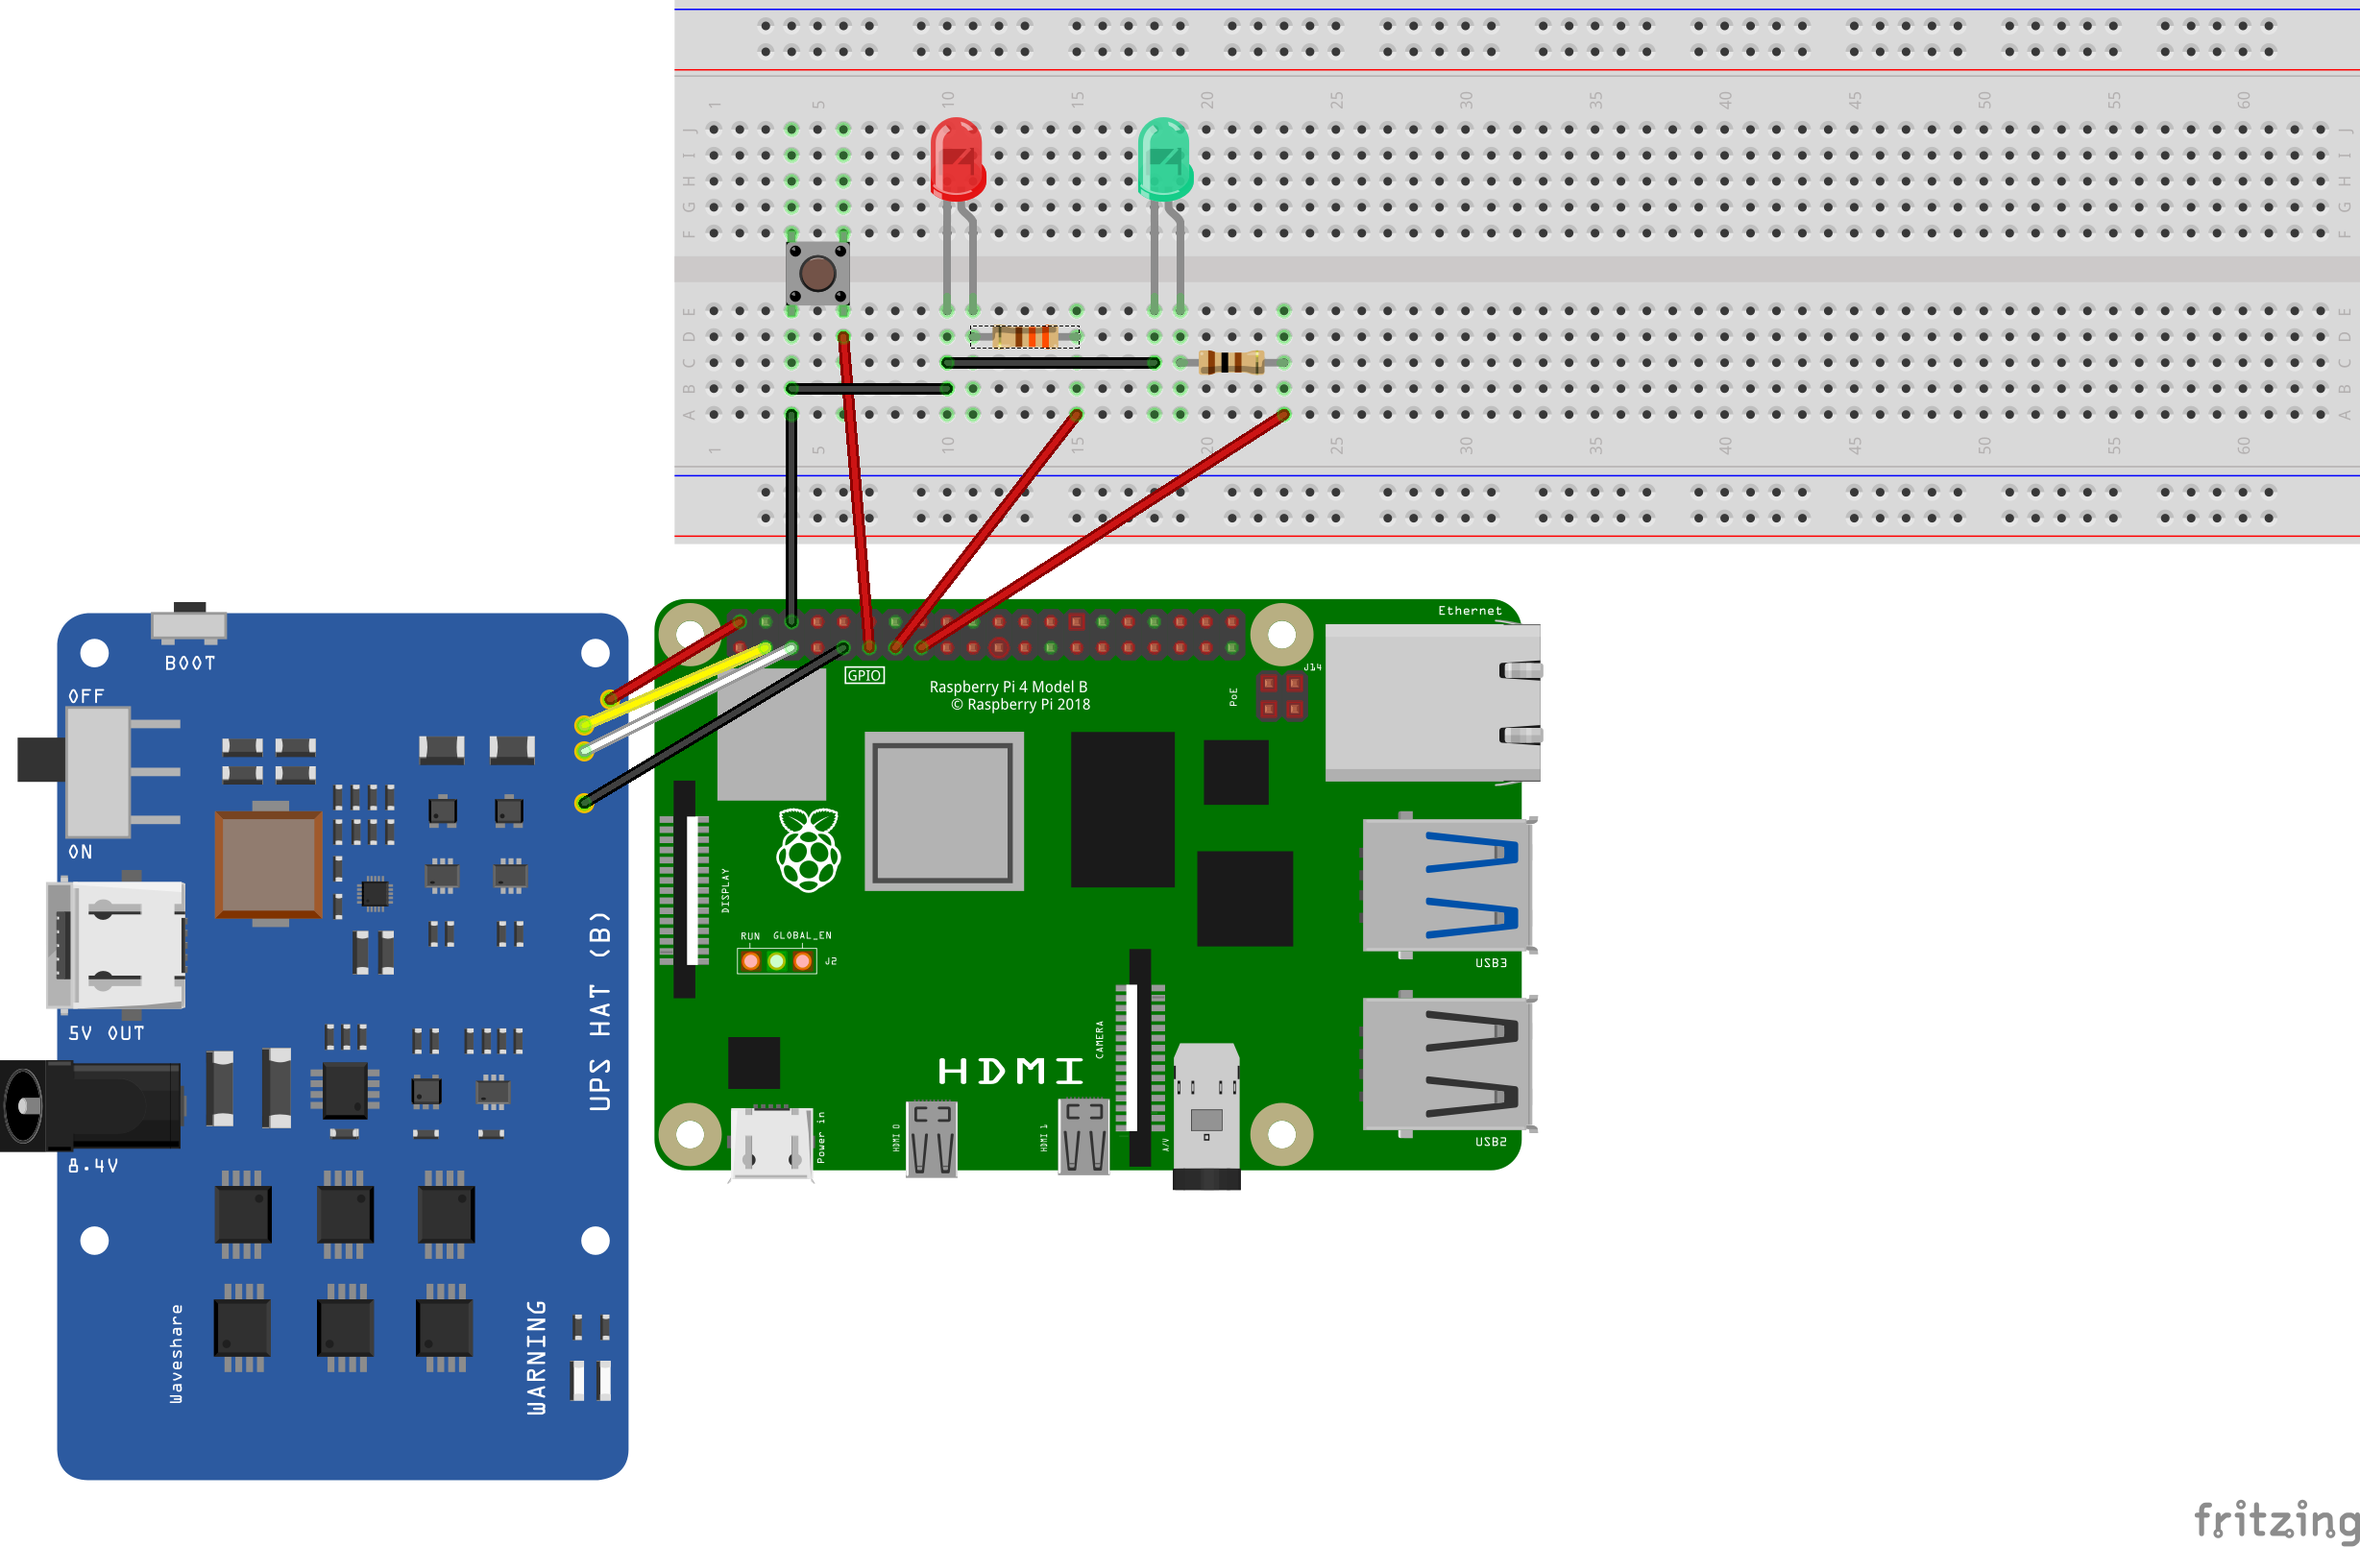
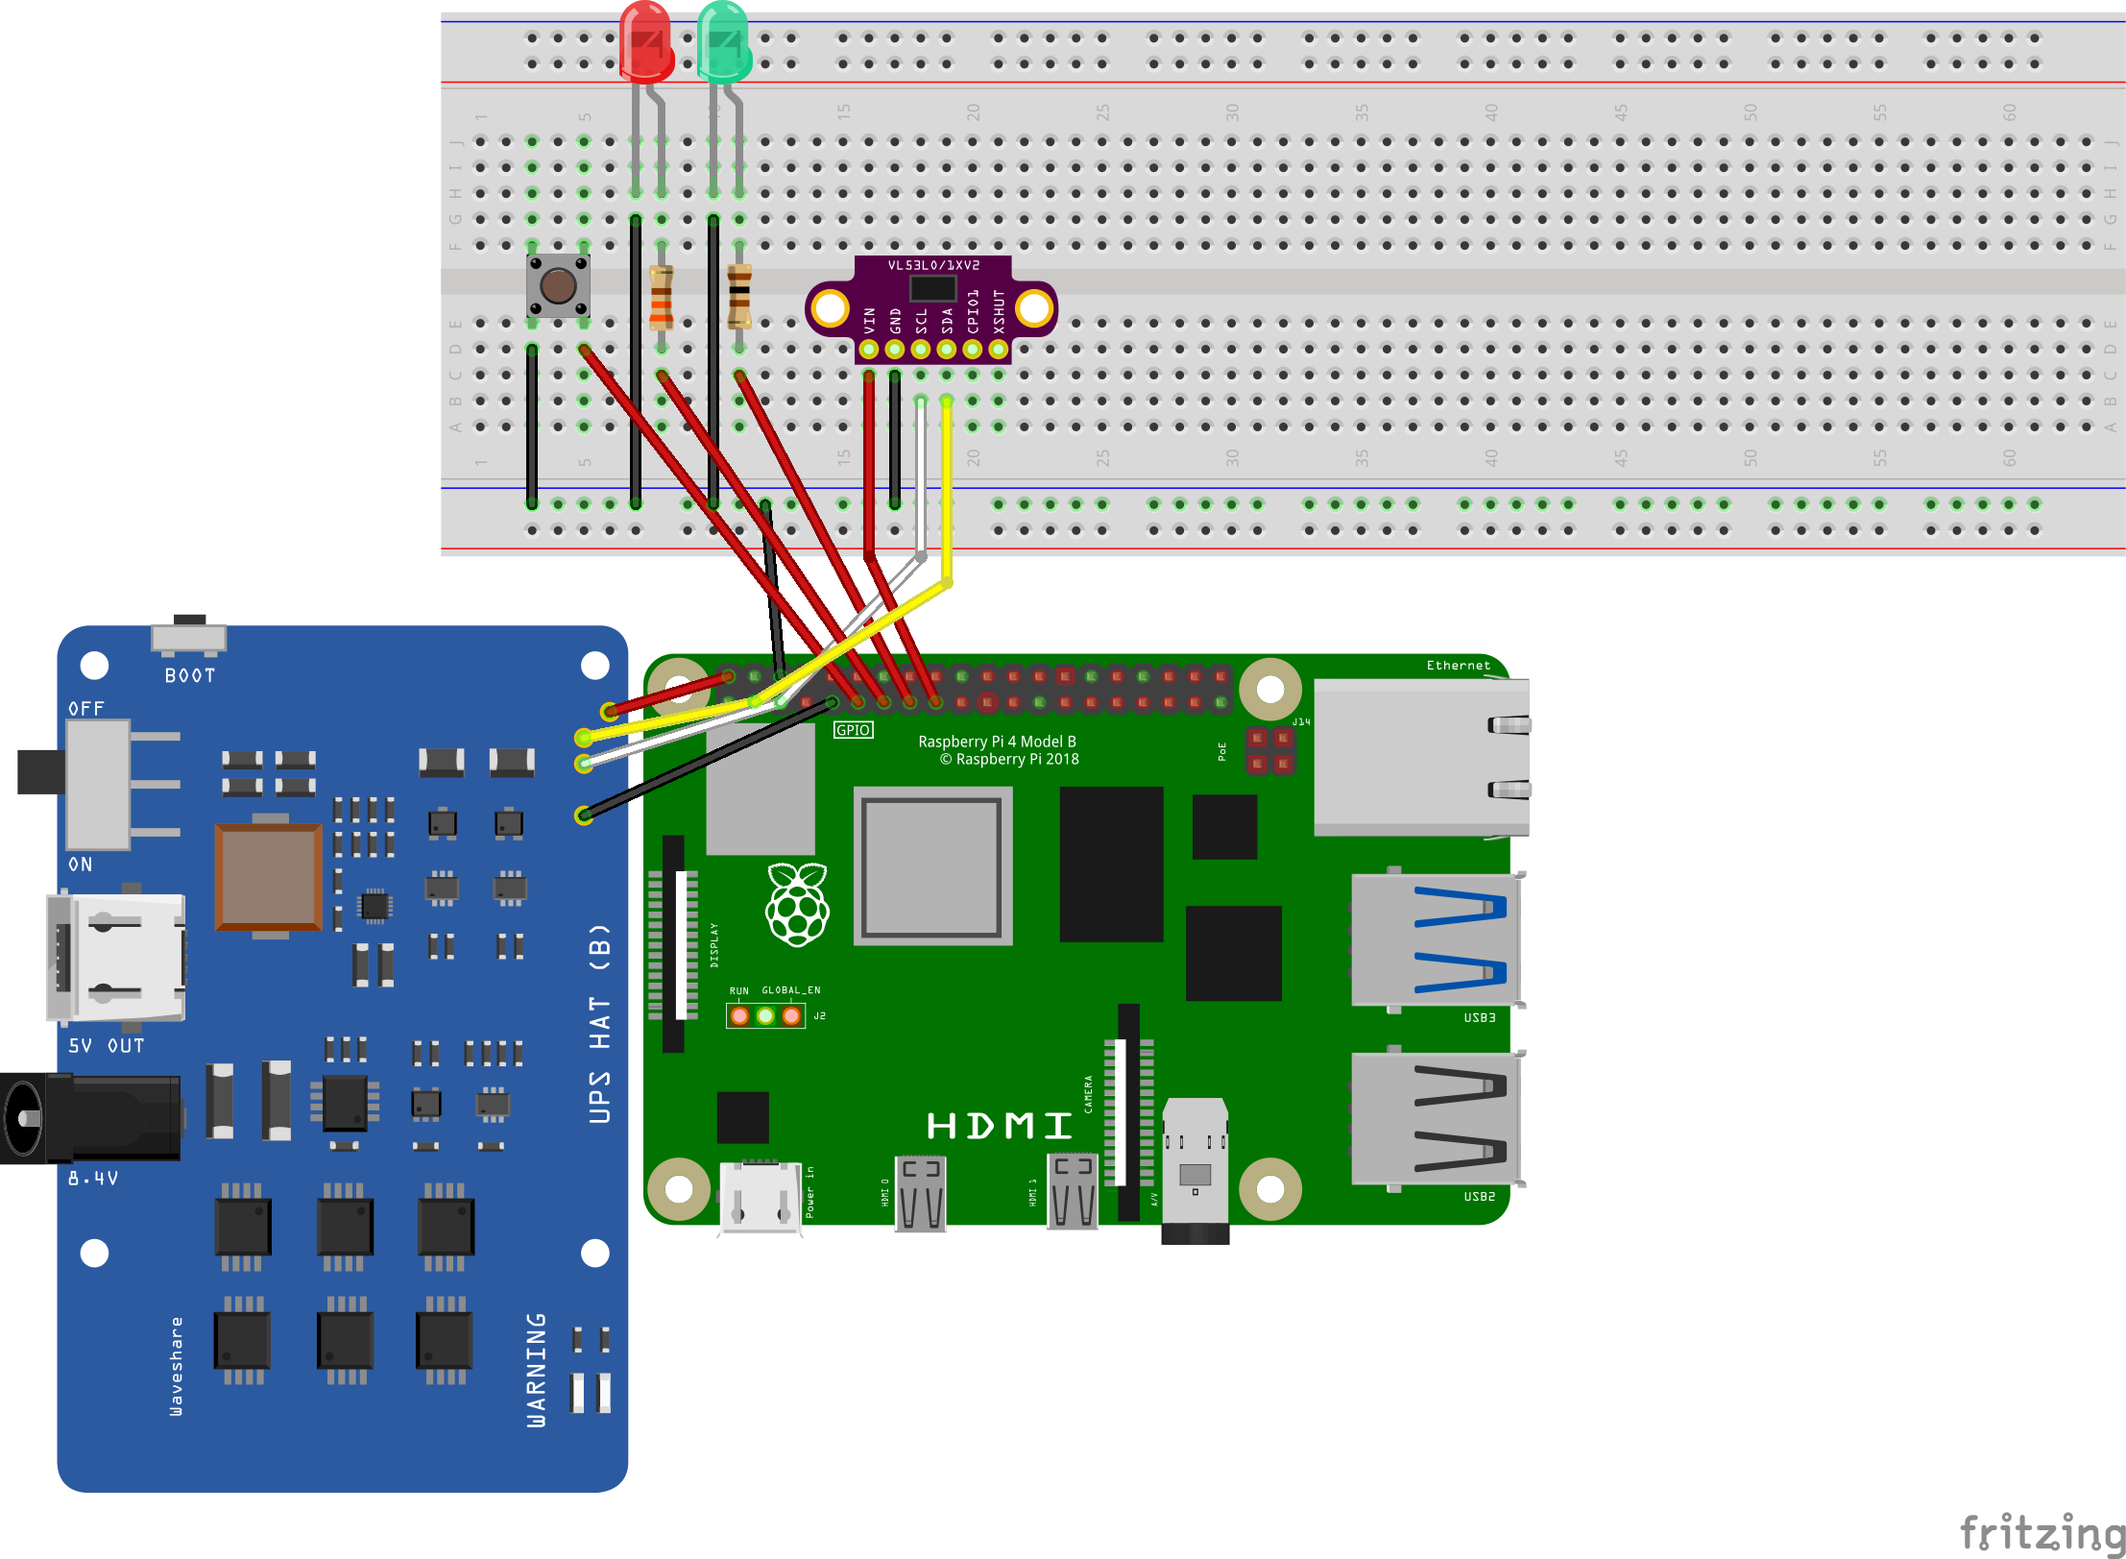
update docs

diff --git a/docs/lessons/lesson5.1_messages_services.md b/docs/lessons/lesson5.1_messages_services.md
@@ -25,5 +25,22 @@ check **green LED** at `GPIO22`:
     ros@rpi:/ros2-ws$ gpioset -c gpiochip0 22=0  # went out
     ^C
 
+check **range sensor** at `I2C bus`:
+
+<pre>
+ros@rpi:/ros2-ws$ i2cdetect -y 1
+     0  1  2  3  4  5  6  7  8  9  a  b  c  d  e  f
+00:                         -- -- -- -- -- -- -- -- 
+10: -- -- -- -- -- -- -- -- -- -- -- -- -- -- -- -- 
+20: -- -- -- -- -- -- -- -- -- 29 -- -- -- -- -- -- 
+30: -- -- -- -- -- -- -- -- -- -- -- -- -- -- -- -- 
+40: -- -- 42 -- -- -- -- -- -- -- -- -- -- -- -- -- 
+50: -- -- -- -- -- -- -- -- -- -- -- -- -- -- -- -- 
+60: -- -- -- -- -- -- -- -- -- -- -- -- -- -- -- -- 
+70: -- -- -- -- -- -- -- --     
+</pre>                    
+
+tof sensor is at 0x29 as expected.
+
 **Bradboard connection is correct. All components are working as expected.**
 
